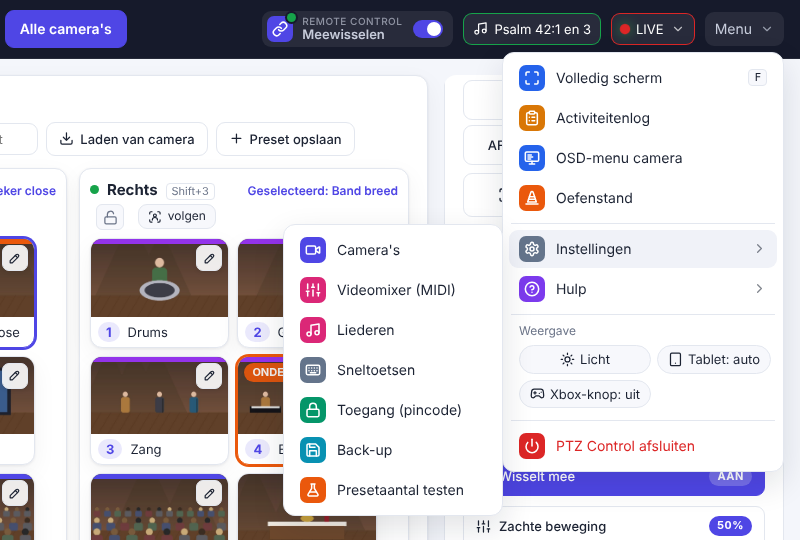
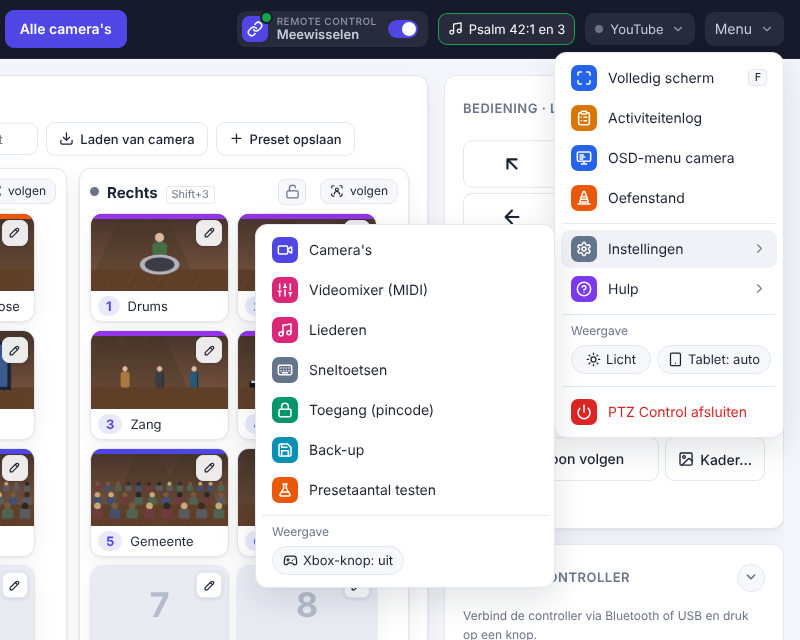
Xbox-knop-schakelaar verplaatst naar Instellingen ▸ Weergave
Op verzoek: de schakelaar staat niet meer in de Weergave-regel van het
hoofdmenu maar onderaan het submenu Instellingen, onder een eigen kopje
Weergave. README, CLAUDE.md, tooltip en screenshots bijgewerkt.

Claude-Session: https://claude.ai/code/session_01UTh5KaErnH4QWkhz9Fr63p

diff --git a/index.html b/index.html
@@ -929,6 +929,8 @@
   .mview { display: grid; grid-template-columns: 1fr 1fr; gap: 6px; padding: 2px 6px 6px 10px; }
   .mview > span { grid-column: 1 / -1; font-size: 12px; color: var(--muted); }
   .mview .mtog { justify-content: center; }
+  /* 🧑 Instellingen ▸ Weergave: schakelaars per apparaat (Xbox-knop, Labels) */
+  .subview { border-top: 1px solid var(--line); margin-top: 4px; padding-top: 8px; }
   .mtog { display: inline-flex; align-items: center; gap: 5px; border: 1px solid var(--line); background: var(--panel2); color: var(--text);
     border-radius: 999px; padding: 4px 10px; font-size: 13px; cursor: pointer; white-space: nowrap; }
   .mtog:hover { background: var(--hover); }
@@ -1070,6 +1072,9 @@
         <button class="mi" id="btnAccess" role="menuitem" title="Pincode instellen: zonder pincode kun je alleen meekijken"><svg class="ic" data-i="lock" aria-hidden="true"><use href="#i-lock"/></svg> Toegang (pincode)</button>
         <button class="mi" id="btnBackup" role="menuitem" title="Presets en camera-instellingen bewaren en terugzetten"><svg class="ic" data-i="save" aria-hidden="true"><use href="#i-save"/></svg> Back-up</button>
         <button class="mi" id="btnCap" role="menuitem" title="Testen hoeveel presets elke camera echt kan opslaan"><svg class="ic" data-i="flask" aria-hidden="true"><use href="#i-flask"/></svg> Presetaantal testen</button>
+        <div class="mview subview" id="setView"><span>Weergave</span>
+        <button class="mtog" id="btnPadPin" title="Knopje in de kolomkop om de Xbox-controller vast op die camera te zetten (dit apparaat)"><svg class="ic" aria-hidden="true"><use href="#i-gamepad"/></svg> Xbox-knop: uit</button>
+        </div>
       </div>
       <button class="mi sub" id="miHelp" role="menuitem" aria-haspopup="true" aria-expanded="false" aria-controls="subHelp"><svg class="ic" data-i="help" aria-hidden="true"><use href="#i-help"/></svg> Hulp<svg class="ic subcaret" aria-hidden="true"><use href="#i-chevron-right"/></svg></button>
       <div class="menu submenu" id="subHelp" hidden role="menu" aria-label="Hulp">
@@ -1080,7 +1085,6 @@
       <div class="mview" id="menuView"><span>Weergave</span>
         <button class="mtog" id="btnTheme" title="Wisselen tussen licht en donker (dit apparaat)"><svg class="ic" aria-hidden="true"><use href="#i-sun"/></svg> Licht</button>
         <button class="mtog" id="btnTablet" title="Tabletweergave: grote tegels en camerakeuze onderin (automatisch → aan → uit, dit apparaat)"><svg class="ic" aria-hidden="true"><use href="#i-tablet"/></svg> Tablet: auto</button>
-        <button class="mtog" id="btnPadPin" title="Knopje in de kolomkop om de Xbox-controller vast op die camera te zetten (dit apparaat)"><svg class="ic" aria-hidden="true"><use href="#i-gamepad"/></svg> Xbox-knop: uit</button>
       </div>
       <div class="msep"></div>
       <button class="mi danger" id="btnQuit" role="menuitem" title="Stopt PTZ Control op deze computer (alle schermen verliezen de verbinding)"><svg class="ic" data-i="power" aria-hidden="true"><use href="#i-power"/></svg> PTZ Control afsluiten</button>
@@ -5038,7 +5042,7 @@ const TIPS = {
   spFocus: { t: "Focussnelheid", d: "Hoe snel <i>Focus ver</i> en <i>Focus dichtbij</i> (en de toetsen) scherpstellen (1–7). Geldt voor dit scherm." },
   padSoft: { t: "Zachte beweging", d: "Hoe geleidelijk de camera optrekt en hoe fijn de stick rond het midden reageert. <i>Uit</i> = direct op snelheid; 50% ≈ 1 s naar topsnelheid; 100% (extra zacht) ≈ 2 s. Stoppen gaat altijd direct. Geldt voor dit scherm." },
   padSplit: { t: "Gescheiden sticks", d: "Linker stick alleen links/rechts (pan), rechter stick alleen omhoog/omlaag (tilt). Focus zit dan niet meer op de rechter stick. <i>Pan only</i> is uitgeschakeld zolang dit aan staat; <i>Tilt omkeren</i> werkt op de rechter stick. Geldt voor dit scherm." },
-  padCam: { t: "Bestuurt", d: "Welke camera de Xbox-controller bestuurt. Klik op een camera = de controller blijft op die camera, ook als je op het scherm een andere camera, tegel of tabblad kiest (label XBOX in de kolomkop). <i>Wisselt mee</i> = de controller volgt de camera die je op het scherm kiest (standaard). Met <i>Xbox-knop</i> aan (Menu → Weergave) ook via een knopje in de kolomkop. D-pad ←/→ wisselt in de vaste stand alleen de controllercamera. Geldt voor dit scherm." },
+  padCam: { t: "Bestuurt", d: "Welke camera de Xbox-controller bestuurt. Klik op een camera = de controller blijft op die camera, ook als je op het scherm een andere camera, tegel of tabblad kiest (label XBOX in de kolomkop). <i>Wisselt mee</i> = de controller volgt de camera die je op het scherm kiest (standaard). Met <i>Xbox-knop</i> aan (Menu → Instellingen → Weergave) ook via een knopje in de kolomkop. D-pad ←/→ wisselt in de vaste stand alleen de controllercamera. Geldt voor dit scherm." },
   padPanOnly: { t: "Pan only", d: "De linker stick draait alleen links/rechts; omhoog/omlaag doet niets. Geldt voor alle camera's op dit scherm. Niet beschikbaar zolang <i>Gescheiden sticks</i> aan staat." },
   padInvY: { t: "Tilt omkeren", d: "Stick omhoog = camera omlaag (met <i>Gescheiden sticks</i>: de rechter stick). Niet beschikbaar zolang <i>Pan only</i> aan staat." },
   padMax: { t: "Max. pan/tilt-snelheid", d: "Snelheid als je de linker stick helemaal duwt (4–24). Geldt voor dit scherm." },

diff --git a/docs/tools/screenshots.py b/docs/tools/screenshots.py
@@ -82,7 +82,7 @@ with sync_playwright() as p:
     pg.screenshot(path=f"{OUT}/tooltip.png", clip={"x": x0, "y": sb["y"], "width": sb["x"] + sb["width"] + 8 - x0, "height": min(560, 900 - sb["y"])}); pg.mouse.move(5, 5); pg.wait_for_timeout(200)
     pg.click("#btnYt"); pg.wait_for_timeout(300); pg.screenshot(path=f"{OUT}/youtube-menu.png", clip={"x": 640, "y": 0, "width": 800, "height": 520}); pg.keyboard.press("Escape")
     pg.evaluate("openPrefs()"); pg.wait_for_timeout(300); pg.locator("#dlgPrefs").screenshot(path=f"{OUT}/youtube-kanaal.png"); pg.click("#prefsCancel")   # kanaal + knop Kanaal-ID opzoeken
-    pg.click("#btnPad"); pg.hover("#miSet"); pg.wait_for_timeout(500); pg.screenshot(path=f"{OUT}/menu.png", clip={"x": 640, "y": 0, "width": 800, "height": 540}); pg.keyboard.press("Escape"); pg.keyboard.press("Escape")   # menu met Instellingen ▸ open
+    pg.click("#btnPad"); pg.hover("#miSet"); pg.wait_for_timeout(500); pg.screenshot(path=f"{OUT}/menu.png", clip={"x": 640, "y": 0, "width": 800, "height": 640}); pg.keyboard.press("Escape"); pg.keyboard.press("Escape")   # menu met Instellingen ▸ open
     pg.click("#presetArea .tile .edit"); pg.wait_for_timeout(500); pg.screenshot(path=f"{OUT}/preset-bewerken.png"); pg.click("#pCancel")
     pg.click("#btnPad"); pg.click("#miSet"); pg.click("#btnSettings"); pg.wait_for_timeout(400); pg.screenshot(path=f"{OUT}/cameras.png"); pg.click("#btnCancel")
     pg.click("#btnPad"); pg.click("#miSet"); pg.click("#btnSettings"); pg.wait_for_timeout(300); pg.click("#btnWizard"); pg.wait_for_timeout(500)

diff --git a/CLAUDE.md b/CLAUDE.md
@@ -192,7 +192,7 @@ Legenda: ✅ geverifieerd (getest of in officiële docs gevonden) · ⚠ aann
 - Zachte beweging, tilt omkeren en max. snelheid blijven per apparaat (localStorage).
 - 🧑 **Pan only en Tilt omkeren zijn schakelknoppen** (op verzoek, 15 nov 2026; geen vinkjes meer; Zachte beweging is sinds 17 nov 2026 een schuif, zie hieronder): `button.padtog` met `.pstate` AAN/UIT, `.on` = indigo, `aria-pressed`; `padTog(id, on)` zet de weergave. 🧑 Zelfde maat als de camerabediening (`.btn.sm`: 40 px, 13 px, gewicht 500, achtergrond `--panel`, rij-afstand 5 px in `.padtogs`). Tilt omkeren is `disabled` (half doorzichtig) zolang Pan only aan staat.
 - 🧑 **Pan only** (op verzoek, 15 nov 2026: "pan-only voor alle camera's in het Xbox-venster"; 🧑 heet **Pan only** en is een **schakelknop die toont of hij actief is**, geen vinkje): `button#padPanOnly.panonly` in de Xbox-kaart (`.on` = indigo, label `.pstate` AAN/UIT, `aria-pressed`), `pad.panOnly` / `store padPanOnly` (per scherm, zoals de andere Xbox-opties; geldt voor alle camera's). In `padLoop` wordt de stick-y dan 0, dus alleen `left`/`right`. *Tilt omkeren* is dan uitgeschakeld. Knopactie `pan_only` (`setPanOnly(!…, true)`, toast + trillen). Toetsenbord-pijltjes blijven pan én tilt. ✅ Getest met nagebootste gamepad.
-- 🧑 **Vaste controllercamera** (op verzoek, 18 nov 2026: "de selectie van welke camera je met Xbox bestuurt niet verandert, instelbaar in de Xbox-controllerinstellingen"): 🧑 **knoppen i.p.v. keuzelijst** (op verzoek, 18 nov 2026: "knop niet beter?", "Wisselt mee moet onderaan staan"): blok `#padCamBox` *Bestuurt* bovenaan de Xbox-kaart (tooltip `TIPS.padCam`): per camera een `.padtog` in `#padCamBtns` (raster, `.on` = indigo = vast op die camera; nogmaals klikken = weer meewisselen) en **onderaan** `#padCamFollow` *Wisselt mee* (`.padtog` met AAN/UIT, standaard aan, `""` = zoals altijd `ctrlCam`). 🧑 Plus **knopje in elke kolomkop** `.padpin` (icoon gamepad; aan = indigo met *XBOX*; klik = vast op die camera / weer meewisselen; niet in alleen-kijken), 🧑 **optioneel**: schakelaar `#btnPadPin` *Xbox-knop: aan/uit* in *Weergave* van het menu, per apparaat `store padPin` (`"1"` = aan, standaard uit, `padPinOn()`/`padPinApply()`); uit = alleen het label `.padtag` XBOX bij de vaste camera. Rondleidingstap *Xbox-knop in de kolomkop*. `renderPadCam()` tekent de knoppen. Per scherm `store padCam` (`pad.cam`, dus ook per workspace); onbekend camera-id → terug op meewisselen (`padFixed()`). `padCamId()` = vaste camera of `ctrlCam`; **alles van de controller gebruikt die**: `padLoop` (move/zoom/focus, `zoomStop(pc)`, `setAF` alleen als het de bediende camera is), `padAction` (presets via `presetClick(pc, n, null, keepSel)` → `ctrlCam` blijft gelijk, opslaan, home, track, af, stopall), `selectByPad`. Vast + `cam_prev`/`cam_next`/`cam:N` → `setPadCam` (alleen de controllercamera, niet `selectCam`). `pad.sentCam` = camera van de laatste controller-beweging; `padStopAll` stopt daar, en `padLoop` stopt eerst de vorige camera als de controllercamera wisselt terwijl er nog iets liep (ook bij meewisselen: eerder liep een stickbeweging dan door op de vorige camera tot loslaten). Label **XBOX** (`.padtag`, `--accent`, icoon gamepad) op het tabblad van de vaste camera; in de kolomkop het label of (met *Xbox-knop* aan) de knop `.padpin`. Rondleidingstap *Welke camera bestuurt de controller?*. Screenshots `xbox-kaart.png` (vast: Midden) en `xbox-vaste-camera.png`. ✅ Getest (Playwright, nagebootste gamepad): standaard volgt de klik; vast op Links → stick en A naar Links terwijl de selectie Midden is (`ctrlCam` blijft Midden); D-pad → wisselt alleen naar Midden; stick vasthouden + op een andere kolom klikken → beweging blijft op de vaste camera; blijft na herladen; terug naar meewisselen haalt het label weg. Rondleiding 47 stappen zonder meldingen op 1440/900/390. ⚠ Niet met een echte controller.
+- 🧑 **Vaste controllercamera** (op verzoek, 18 nov 2026: "de selectie van welke camera je met Xbox bestuurt niet verandert, instelbaar in de Xbox-controllerinstellingen"): 🧑 **knoppen i.p.v. keuzelijst** (op verzoek, 18 nov 2026: "knop niet beter?", "Wisselt mee moet onderaan staan"): blok `#padCamBox` *Bestuurt* bovenaan de Xbox-kaart (tooltip `TIPS.padCam`): per camera een `.padtog` in `#padCamBtns` (raster, `.on` = indigo = vast op die camera; nogmaals klikken = weer meewisselen) en **onderaan** `#padCamFollow` *Wisselt mee* (`.padtog` met AAN/UIT, standaard aan, `""` = zoals altijd `ctrlCam`). 🧑 Plus **knopje in elke kolomkop** `.padpin` (icoon gamepad; aan = indigo met *XBOX*; klik = vast op die camera / weer meewisselen; niet in alleen-kijken), 🧑 **optioneel**: schakelaar `#btnPadPin` *Xbox-knop: aan/uit* in 🧑 **Instellingen ▸ Weergave** (blok `#setView.mview.subview` onderaan `#subSet`; op verzoek, 18 nov 2026: "Xbox-knop en labels onder instellingen en dan weergave"), per apparaat `store padPin` (`"1"` = aan, standaard uit, `padPinOn()`/`padPinApply()`); uit = alleen het label `.padtag` XBOX bij de vaste camera. Rondleidingstap *Xbox-knop in de kolomkop*. `renderPadCam()` tekent de knoppen. Per scherm `store padCam` (`pad.cam`, dus ook per workspace); onbekend camera-id → terug op meewisselen (`padFixed()`). `padCamId()` = vaste camera of `ctrlCam`; **alles van de controller gebruikt die**: `padLoop` (move/zoom/focus, `zoomStop(pc)`, `setAF` alleen als het de bediende camera is), `padAction` (presets via `presetClick(pc, n, null, keepSel)` → `ctrlCam` blijft gelijk, opslaan, home, track, af, stopall), `selectByPad`. Vast + `cam_prev`/`cam_next`/`cam:N` → `setPadCam` (alleen de controllercamera, niet `selectCam`). `pad.sentCam` = camera van de laatste controller-beweging; `padStopAll` stopt daar, en `padLoop` stopt eerst de vorige camera als de controllercamera wisselt terwijl er nog iets liep (ook bij meewisselen: eerder liep een stickbeweging dan door op de vorige camera tot loslaten). Label **XBOX** (`.padtag`, `--accent`, icoon gamepad) op het tabblad van de vaste camera; in de kolomkop het label of (met *Xbox-knop* aan) de knop `.padpin`. Rondleidingstap *Welke camera bestuurt de controller?*. Screenshots `xbox-kaart.png` (vast: Midden) en `xbox-vaste-camera.png`. ✅ Getest (Playwright, nagebootste gamepad): standaard volgt de klik; vast op Links → stick en A naar Links terwijl de selectie Midden is (`ctrlCam` blijft Midden); D-pad → wisselt alleen naar Midden; stick vasthouden + op een andere kolom klikken → beweging blijft op de vaste camera; blijft na herladen; terug naar meewisselen haalt het label weg. Rondleiding 47 stappen zonder meldingen op 1440/900/390. ⚠ Niet met een echte controller.
 - 🧑 **Gescheiden sticks** (spec 5.1, goedgekeurd 17 nov 2026): schakelknop `button#padSplit.padtog` (icoon `i-sticks`, nieuw in de sprite, leisteen in iconstijl D) **boven Pan only**, 🧑 **standaard uit**, per scherm `store padSplit` (`pad.split`). Aan: `padLoop` neemt x van de linker stick (`axes[0]`) en y van de rechter stick (`axes[3]`, met *Tilt omkeren*); de rechter stick doet dan geen focus. 🧑 Zolang hij aan staat is *Pan only* **uitgeschakeld** (`disabled`, 🧑 label `.pstate` *n.v.t.* i.p.v. AAN/UIT; de bewaarde stand blijft maar telt niet (`padPanOnlyOn()`) en komt terug als Gescheiden sticks uit gaat) en weigert de knopactie `pan_only` met toast *Pan only is niet beschikbaar met Gescheiden sticks*; *Tilt omkeren* blijft werken. `padTogsState()` zet alle drie. Knopactie `split` (*Gescheiden sticks aan/uit*). De vaste stick-regels in `#dlgMap` (`#padStickMap`, `padStickRows()`) volgen de stand (ook Pan only / Tilt omkeren). Rondleidingstap *Gescheiden sticks*. ✅ Getest (Playwright, nagebootste gamepad): standaard uit, links = alleen pan, rechts = alleen tilt (ook omgekeerd), diagonaal met beide sticks, geen focus, Pan only disabled + toast bij knopactie, uitlegregels in het venster. ⚠ Niet met een echte controller.
 - 🧑 **Sticks afstellen** (spec 5.4, goedgekeurd 17 nov 2026; 🧑 **algemeen, niet per knoppenprofiel**): `cfg.pad_cal = {left|right: {dz, max, curve, pts}}` in `cameras.json` (per workspace, mee in back-ups), gedeeld over alle schermen. Server: `norm_pad_cal` (dz 0–0,4, max 0,5–1, curve `standaard|vertraagd|direct|eigen`, `pts` = twee punten 0–1, x oplopend, y niet terug), `PAD_CAL_DEFAULT` (links dz 0,18, rechts 0,35, max 1, standaard); **alleen via `POST /api/pad/cal {cal: {left|right: {…}}}`** (per stick samenvoegen) of `{reset: true}` (sleutel weg), SSE `config`, log *Xbox: sticks afgesteld* / *standaard afgesteld* (`describe_request`). `POST /api/config` behoudt altijd de bestaande `pad_cal` (zoals `midi`); `GET /api/config` geeft hem altijd volledig plus `pad_cal_default` (wordt bij opslaan weggegooid). UI: knop `#btnCal` *Sticks afstellen…* naast `#btnMap2` (`.padbtns`; zit in de Xbox-kaart, dus niet in alleen-kijken), venster `#dlgCal`: tabs `.caltabs` *Linker/Rechter stick* (ook ←/→), regel `#calUse` (wat de stick nu doet: pan/tilt, Pan only, Gescheiden sticks, focus), links `#calLive` (cirkel, assen, dode zone als gestippeld vierkant `--warn` want de dode zone geldt per as, stip `--accent`, waarden eronder), rechts curveknoppen `.calmode` (actieve: indigo ring) en grafiek `#calGraph` (dode-zonevlak `--warnbg` + stippellijn `--warn`, lineaire stippellijn, curve `--accent`, dunne stippel-curve *met Zachte beweging* als die aan staat, live-stip `#cgLive`), bij *Eigen* twee punten `.cg-pt` (pointer events op de svg zelf zodat opnieuw tekenen het slepen niet breekt; toetsenbord ←→↑↓ ±2 %, Shift ±10 %; focus blijft na opnieuw tekenen), schuiven *Dode zone* `#calDzR` (0–40 %) en *Maximaal* `#calMaxR` (50–100 %), *Standaard terugzetten*, *Sluiten*. Opslaan 400 ms na een wijziging; `loadConfig` houdt een lokaal gewijzigde afstelling 1,5 s vast (`calKeep`) zodat het venster niet terugspringt. Zolang het open is bestuurt de controller niets (`anyDialog`), de live-stand werkt wel (`calLive` in `padLoop`, vóór de `ctrlCam`-controle). **Volgorde** in `calAxis(raw, side, focus)`: dode zone → curve (`calShape`) → zachte beweging (vorm: macht `softExp(s)/2`, alleen pan/tilt) → maximaal; daarna in `padLoop` × max. snelheid en het optrekken van Zachte beweging. Curves: standaard = v² (pan/tilt; met zachte beweging dus precies het oude v^softExp) en **lineair voor focus** (zoals altijd), vertraagd = v³, direct = v, eigen = rechte stukken door (0,0), de twee punten, (1,1). Gescheiden sticks: tilt gebruikt de afstelling van de rechter stick. 🧑 **Dode zone rechter stick** (keuze 17 nov 2026): standaard 35 % voor focus, maar met Gescheiden sticks aan (= tilt) standaard **18 %** zolang de rechter stick niet zelf is afgesteld. Daarom slaat de server alleen afgestelde sticks op (`pad_cal` = alleen `left`/`right` die via `/api/pad/cal` zijn gezet; reset = sleutel weg) en geeft `GET /api/config` `pad_cal_set {left, right}` mee (bij opslaan weggegooid); `padCal(side)` geeft dan de standaard met dz 18 % (`padCalSplitStd`), ook in `#dlgCal`. Wie de rechter stick in dat venster wijzigt, slaat de getoonde waarde op (dan geldt die ook zonder Gescheiden sticks). 🧑 **Venster open = controller stopt**: `padLoop` stuurt bij `anyDialog()` (elk venster of de rondleiding) één keer `padStopAll()` als er nog een beweging/zoom/focus van de controller liep, daarna niets; de live-stand in `#dlgCal` blijft werken (eerder draaide de camera door tot het venster dicht was, gevonden door nep-tester). Nieuwe rondleidingstap *Sticks afstellen*. ✅ Getest (Playwright, nagebootste gamepad, twee schermen): standaard = 0 afwijkingen t.o.v. de oude formules (soft 0/25/50/75/100, pan én focus, alle uitslagen), live-stip, curve kiezen → server en tweede scherm, punten slepen en met toetsen, dode zone 30 % → stick 0,25 doet niets, `/api/config` zonder `pad_cal` wist hem niet, standaard terugzetten haalt hem uit `cameras.json`, logregels. ⚠ Niet met een echte controller.
 - Commando's alleen bij verandering, maximaal ~12/s (80 ms).

diff --git a/README.md b/README.md
@@ -255,7 +255,7 @@ De controllerstatus staat in de Xbox-kaart in de zijbalk (groen *Verbonden*). He
 
 **Knoppenprofielen (per persoon):** in de Xbox-kaart kies je bij *Knoppenprofiel* welke knoppenindeling deze controller gebruikt. In *Knoppenindeling instellen…* maak je een nieuw profiel (begint als kopie van het huidige), hernoem of verwijder je het. Elk scherm onthoudt zelf welk profiel actief is; de profielen staan in de back-up.
 
-**Welke camera de controller bestuurt** kies je in de Xbox-kaart bij **Bestuurt**: een knop per camera, met onderaan **Wisselt mee**. Standaard staat *Wisselt mee* aan: de controller bedient de camera die je op het scherm kiest (tabblad, kolomkop, tegel, sneltoets of *Meewisselen*). Tik je op een camera, dan blijft de controller op die camera, ook als je op het scherm een andere camera kiest of een preset van een andere camera aanklikt. Nog sneller tijdens de dienst: zet in **Menu → Weergave** de schakelaar **Xbox-knop** aan (per apparaat, standaard uit). Dan krijgt elke kolomkop een **controllerknopje** (tik = vast op die camera, nog een keer = weer meewisselen). De vaste camera krijgt in de kolomkop en op het tabblad het label **XBOX**. De presetknoppen, home, volgen en *Alles stoppen* op de controller gaan dan ook naar die camera, en met D-pad ←/→ wissel je alleen de controllercamera (niet de selectie op het scherm). Elk scherm onthoudt zijn eigen keuze.
+**Welke camera de controller bestuurt** kies je in de Xbox-kaart bij **Bestuurt**: een knop per camera, met onderaan **Wisselt mee**. Standaard staat *Wisselt mee* aan: de controller bedient de camera die je op het scherm kiest (tabblad, kolomkop, tegel, sneltoets of *Meewisselen*). Tik je op een camera, dan blijft de controller op die camera, ook als je op het scherm een andere camera kiest of een preset van een andere camera aanklikt. Nog sneller tijdens de dienst: zet in **Menu → Instellingen → Weergave** de schakelaar **Xbox-knop** aan (per apparaat, standaard uit). Dan krijgt elke kolomkop een **controllerknopje** (tik = vast op die camera, nog een keer = weer meewisselen). De vaste camera krijgt in de kolomkop en op het tabblad het label **XBOX**. De presetknoppen, home, volgen en *Alles stoppen* op de controller gaan dan ook naar die camera, en met D-pad ←/→ wissel je alleen de controllercamera (niet de selectie op het scherm). Elk scherm onthoudt zijn eigen keuze.
 
 <img src="docs/screenshots/xbox-vaste-camera.png" width="300" alt="Kolomkop met het label XBOX: de controller bestuurt vast deze camera">
 
